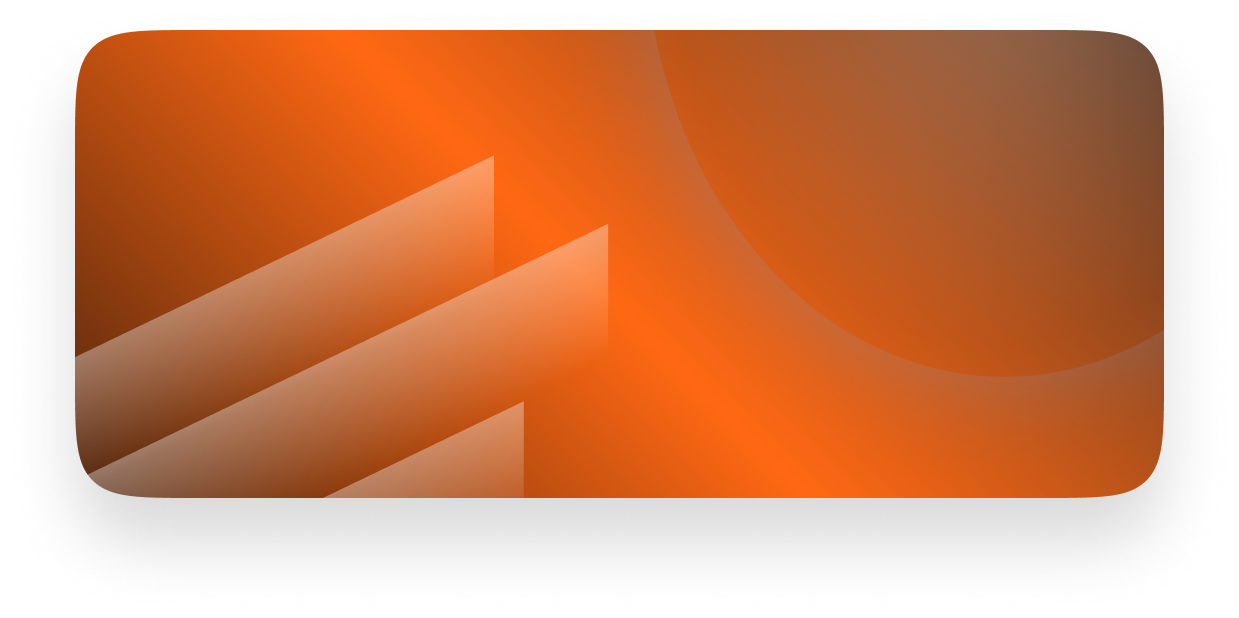
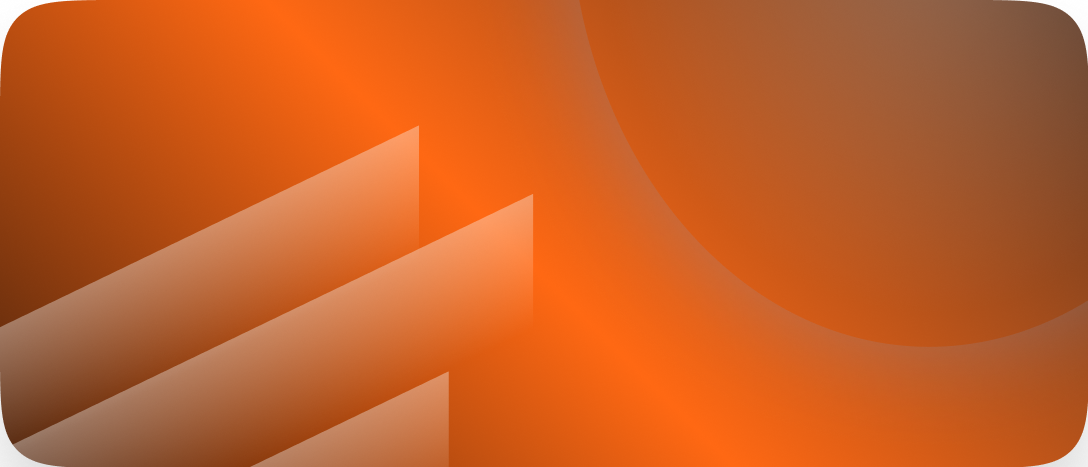
Crop the card background assets to the card edges, no more white margin

diff --git a/src/components/home/visa-card.tsx b/src/components/home/visa-card.tsx
@@ -12,16 +12,17 @@ type Props = {
 
 export function VisaCard({ cardLast4, validThru, balance, name }: Props) {
   return (
-    <div className="relative h-44 max-w-88.25 flex-1 overflow-hidden rounded-2xl text-white">
+    <div className="relative h-44 max-w-102.5 flex-1 overflow-hidden rounded-2xl text-white">
       {/* max-w keeps the container at the artwork's own aspect ratio
-          (1239x618) — without it, flex-1 could stretch this far wider than
-          the source image on large screens, cropping the design out of view
-          and pushing the overlay text to the very edge. */}
+          (cropped to the card edges, ~2.33:1) — without it, flex-1 could
+          stretch this far wider than the source image on large screens,
+          cropping the design out of view and pushing the overlay text to
+          the very edge. */}
       <Image
-        src="/card_bg.png"
+        src="/card_bg.jpg"
         alt=""
         fill
-        sizes="353px"
+        sizes="410px"
         className="object-cover"
         priority
       />
@@ -37,7 +38,9 @@ export function VisaCard({ cardLast4, validThru, balance, name }: Props) {
 
         <div className="flex items-end justify-between">
           <div>
-            <p className="font-mono text-sm tracking-widest">•••• {cardLast4}</p>
+            <p className="font-mono text-sm tracking-widest">
+              •••• {cardLast4}
+            </p>
             <p className="mt-1 text-[9px] font-medium uppercase leading-tight opacity-80">
               Valid
               <br />
